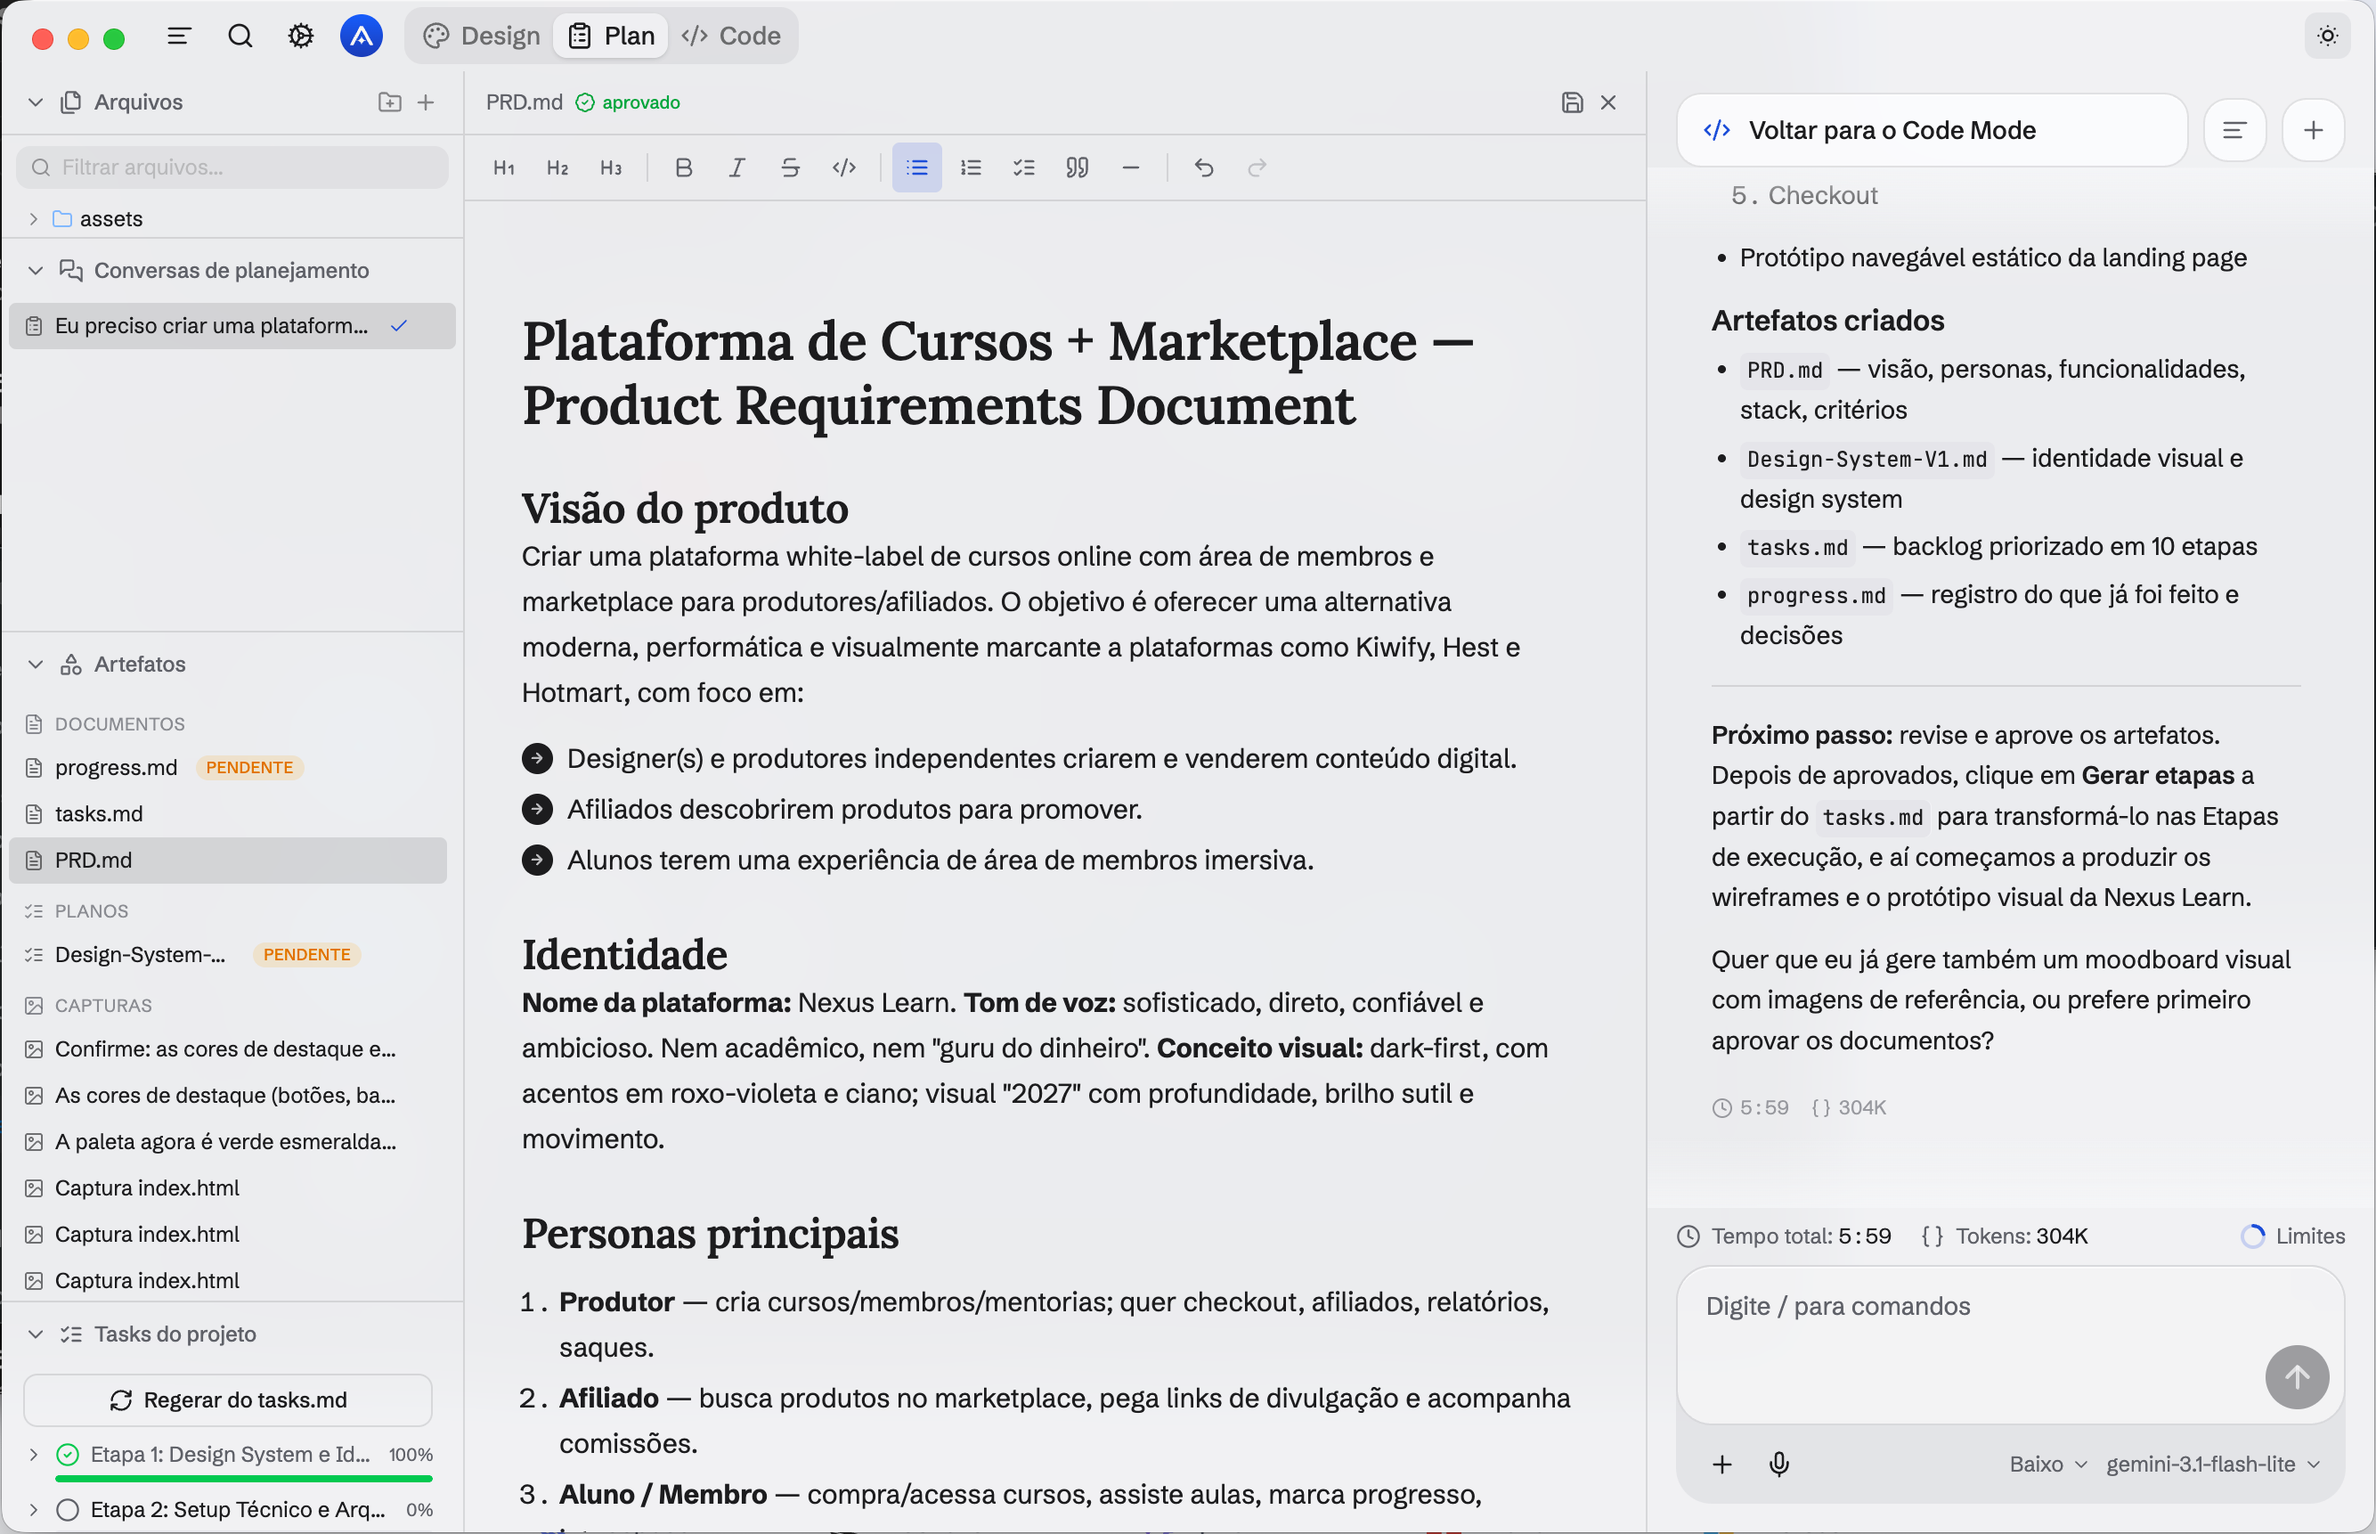
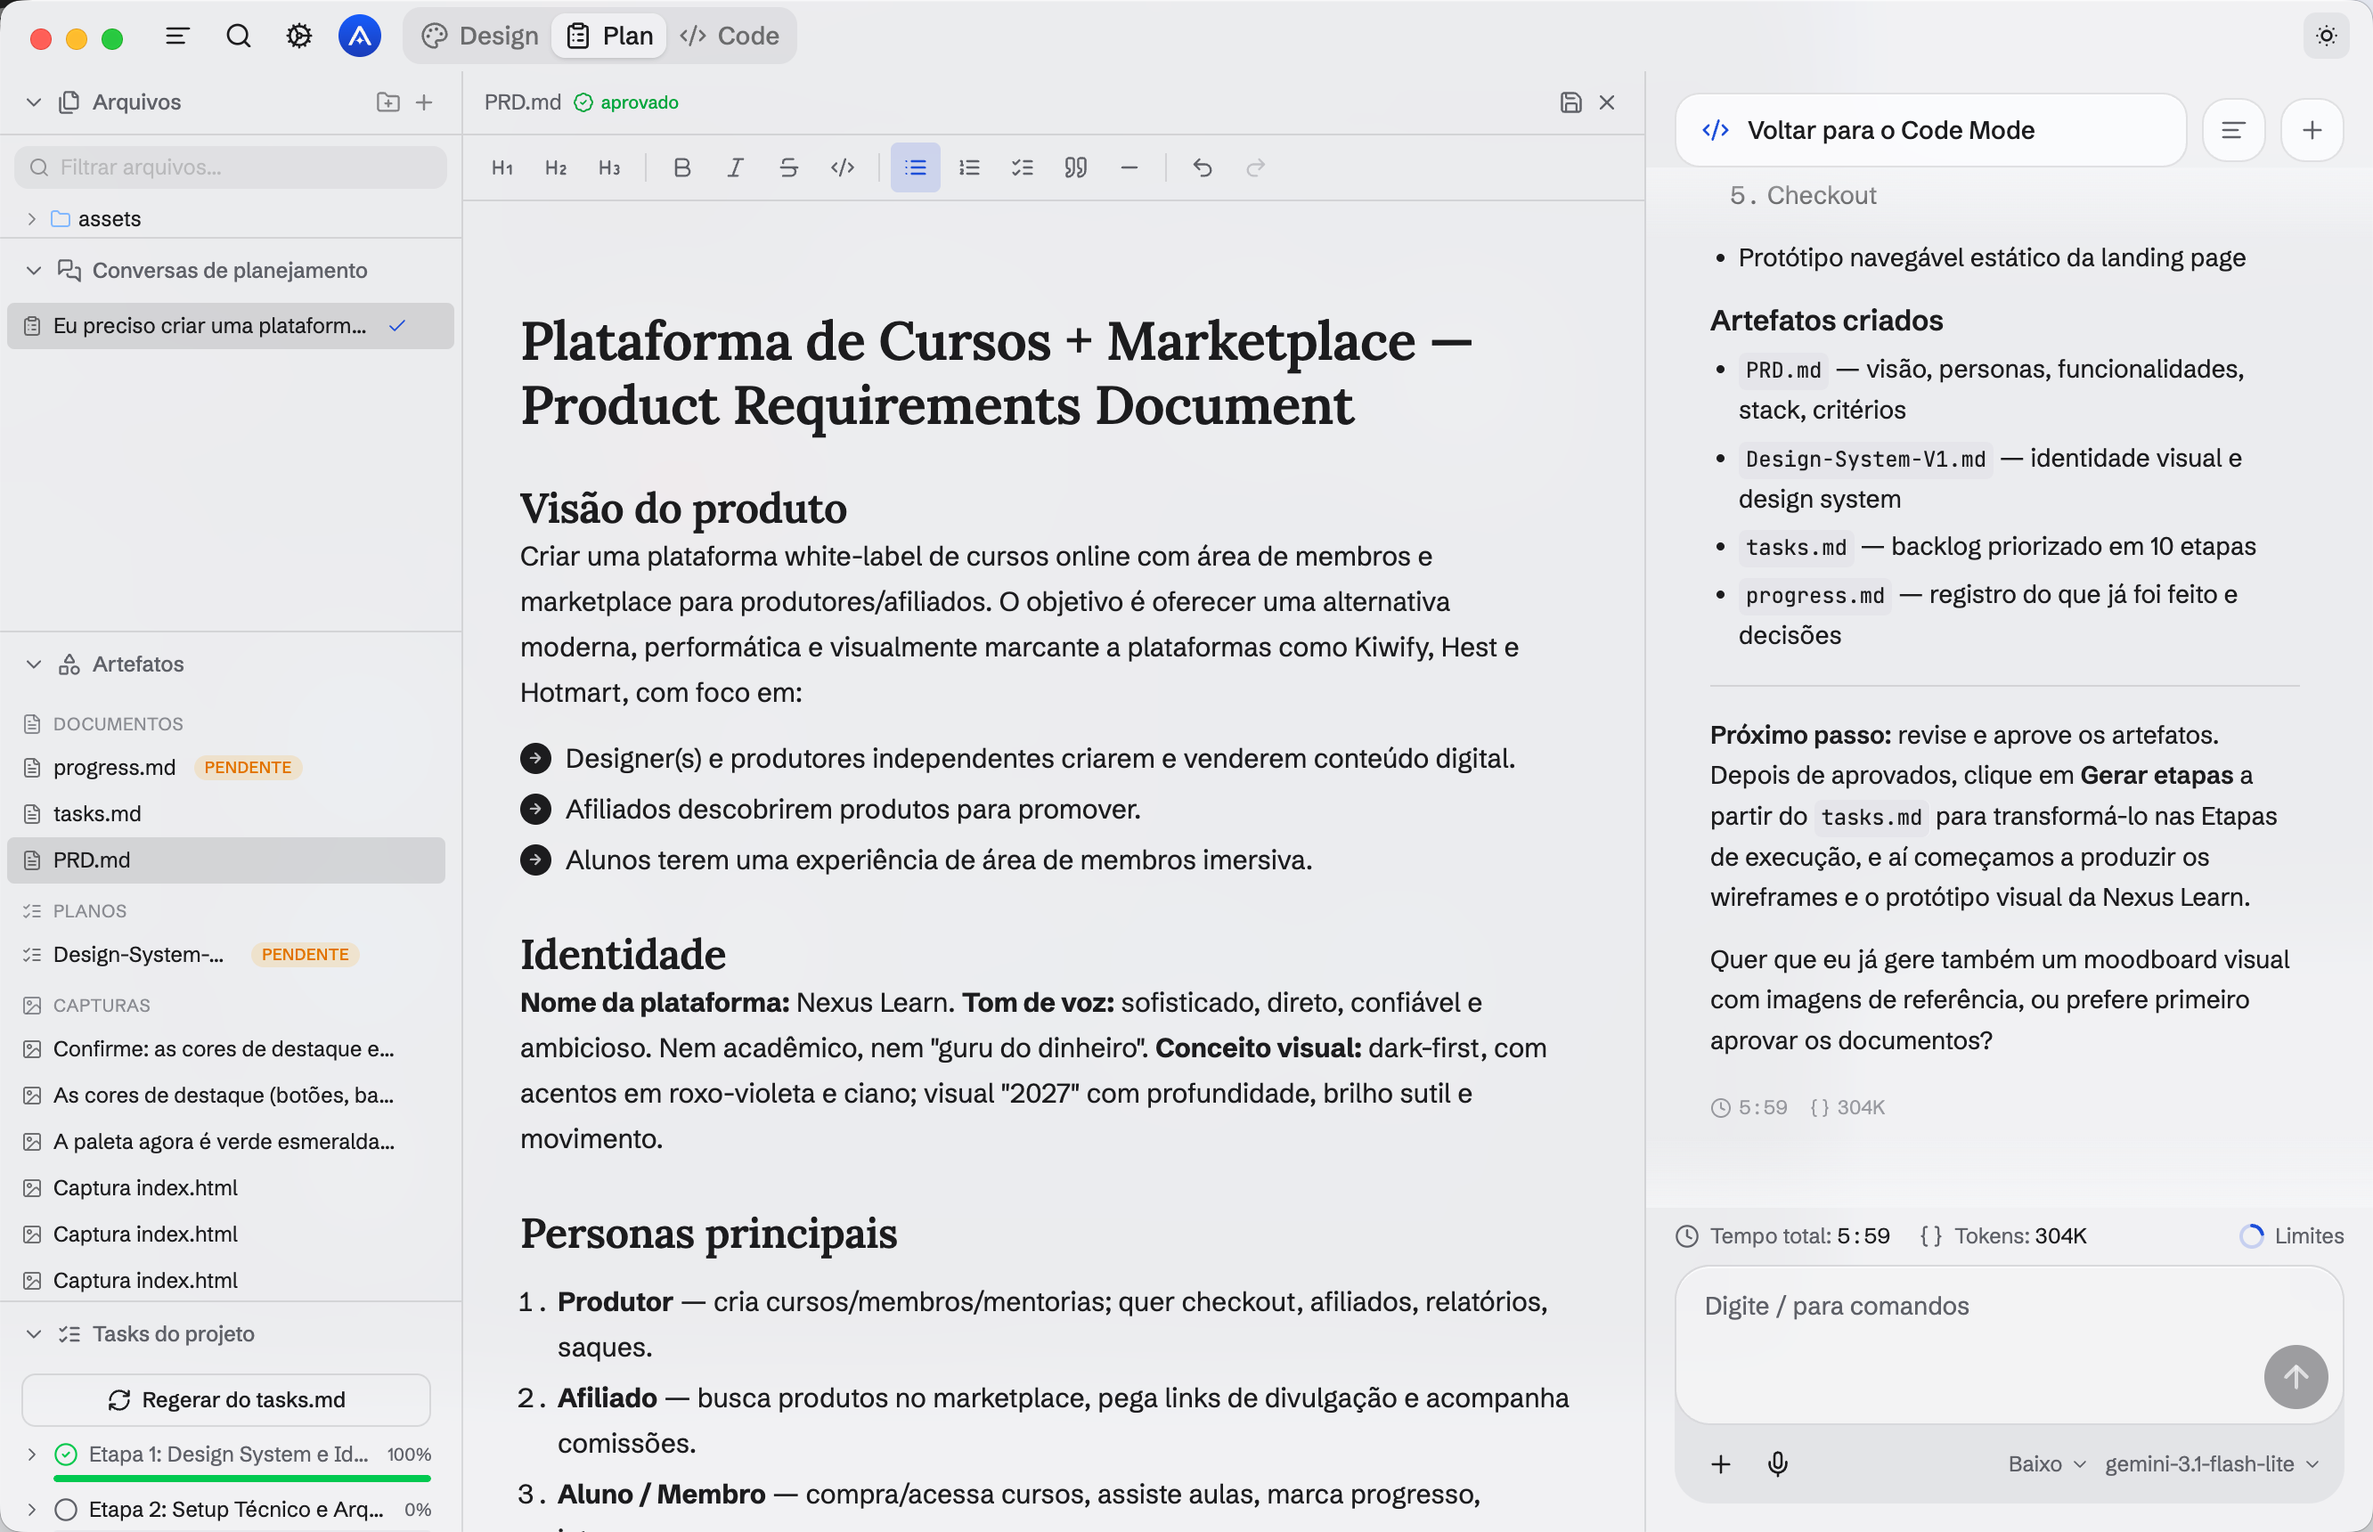
fix(landing): bordas escuras, distorção e escala do print do modo Plan
BORDAS. Medidas coluna a coluna no arquivo: 2px escuros na esquerda, 2 na
direita e 2 embaixo (o topo já tinha sido tratado). Cortados — 2664x1720.

DISTORÇÃO. `.gb-tilt-right` era `rotateX(11deg) rotateZ(5deg)` com
`transform-origin: 0% 0%`. Dois problemas somados: pivotar no canto superior
esquerdo gira o painel em torno de um ponto fora do eixo de leitura, e o
keystone do rotateX aparece muito mais num documento denso de texto do que num
painel de chat. Agora `perspective(3400px) rotateX(6deg) rotateZ(2.5deg)` com
pivô central — menos ângulo, keystone mais raso, simetria.

ESCALA. O print parou de vazar da coluna. O do hero é largo e baixo (2,8:1) e
o transbordo dá a sensação de tela grande demais pra caber; este é quase
quadrado (1,55:1) e, no mesmo tratamento, engolia a seção. Fica em 92% (82% em
telas grandes), dentro do container.

Verificado: build, 1440 e 390 sem overflow horizontal.

diff --git a/components/landing/ScaleSection.tsx b/components/landing/ScaleSection.tsx
@@ -46,8 +46,12 @@ export function ScaleSection(): React.JSX.Element {
             </div>
           </div>
 
-          {/* sm+ : o print real do modo Plan. */}
-          <div className="hidden sm:-ml-[10%] sm:block sm:w-[116%] lg:-ml-[8%] lg:w-[110%]">
+          {/* sm+ : o print real do modo Plan.
+              Não vaza da coluna como o do hero. Aquele é largo e baixo (2,8:1)
+              e o transbordo dá a sensação de tela grande demais pra caber;
+              este é quase quadrado (1,55:1) e, no mesmo tamanho, engolia a
+              seção inteira. Fica dentro do container, alinhado à esquerda. */}
+          <div className="hidden sm:block sm:w-[92%] lg:w-[82%]">
             <div
               className="gb-tilt-right gb-fade-bottom overflow-hidden rounded-[14px]"
               style={{ border: '1px solid var(--hairline)', boxShadow: 'var(--shadow-panel)' }}

diff --git a/app/glass-bench.css b/app/glass-bench.css
@@ -148,9 +148,17 @@
   box-shadow: var(--shadow-panel);
 }
 
+/* Inclinação SUAVE, e pivô no centro.
+ *
+ * A versão anterior (rotateX 11deg, rotateZ 5deg, origem 0% 0%) parecia
+ * distorcida com este conteúdo: pivotar no canto superior esquerdo faz o
+ * painel inteiro girar em torno de um ponto fora do eixo de leitura, e o
+ * keystone do rotateX é MUITO mais visível num documento denso de texto do
+ * que num painel de chat. Menos ângulo, mais perspectiva (keystone mais
+ * raso) e pivô central resolvem sem perder a sensação de objeto pousado. */
 .gb-tilt-right {
-  transform: perspective(2400px) rotateX(11deg) rotateZ(5deg);
-  transform-origin: 0% 0%;
+  transform: perspective(3400px) rotateX(6deg) rotateZ(2.5deg);
+  transform-origin: 50% 0%;
   box-shadow: var(--shadow-panel);
 }
 
